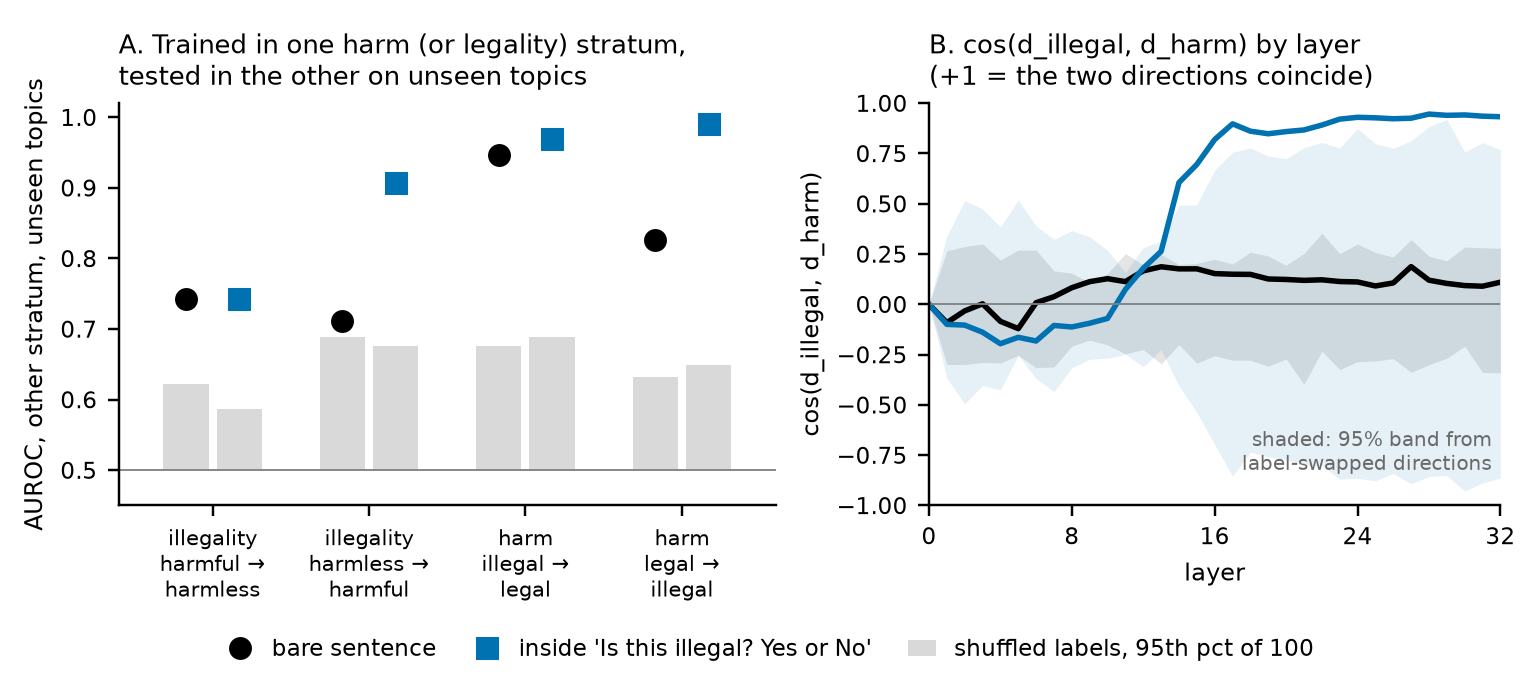
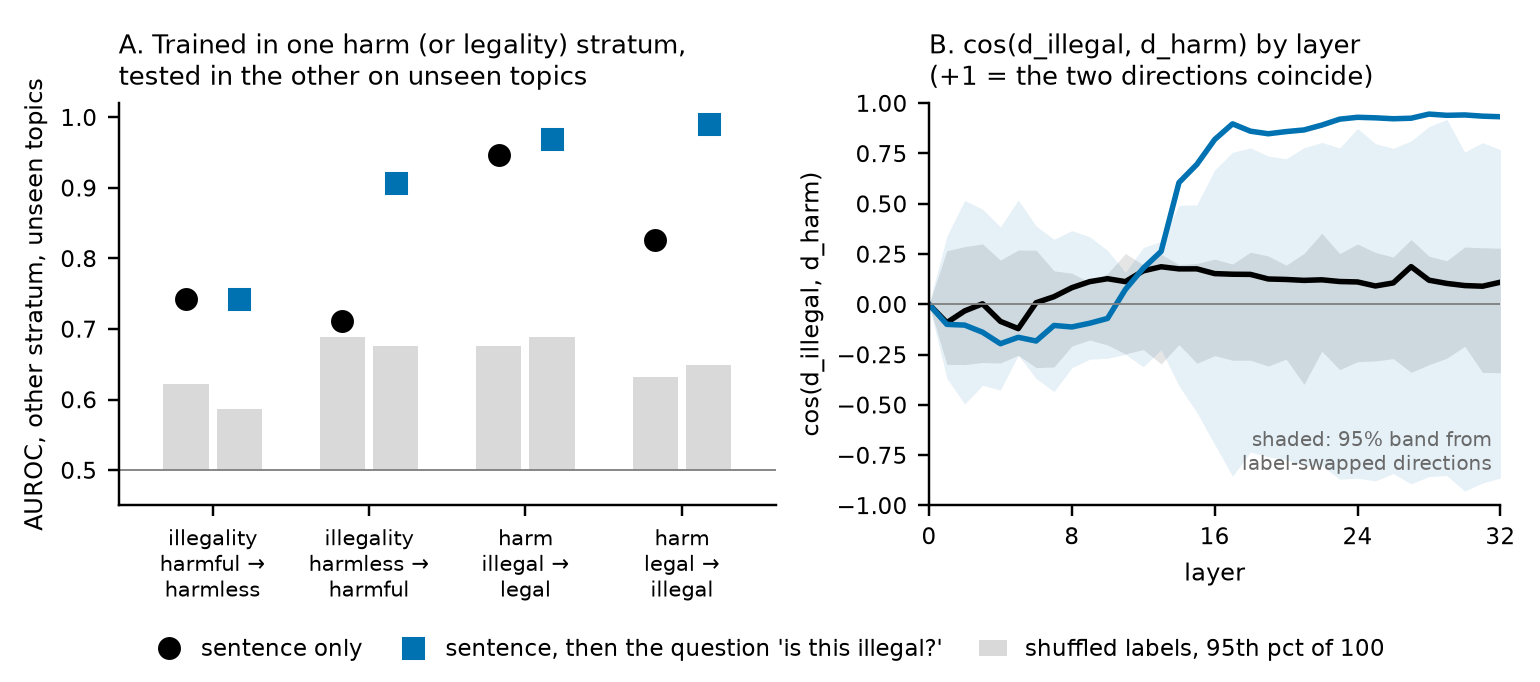
Condition labels: 'sentence only' and 'sentence + question' in the figure and the table (was bare / prompted / inside)

Changed region(s): [[0.0935, 0.9238, 0.9039, 0.9853]]

diff --git a/scripts/figures.py b/scripts/figures.py
@@ -18,7 +18,7 @@ sys.path.insert(0, str(Path(__file__).resolve().parent))
 from common import ROOT, DESIGNS
 
 p = argparse.ArgumentParser(); p.add_argument("--run", required=True); p.add_argument("--title", default="", help="accepted for compatibility; the caption names the model"); a = p.parse_args()
-conds = [(a.run, "bare sentence", "#000000", "o"), (f"{a.run}_prompted", "inside 'Is this illegal? Yes or No'", "#0072B2", "s")]
+conds = [(a.run, "sentence only", "#000000", "o"), (f"{a.run}_prompted", "sentence, then the question 'is this illegal?'", "#0072B2", "s")]
 J = lambda cond, tag: (lambda f: json.loads(f.read_text()) if f.exists() else None)(ROOT / "data/processed" / f"probeeval_{cond}_{tag}.json")
 ticks = [label.replace(", ", "\n").replace(" → ", " →\n") for _, _, _, label in DESIGNS]
 (ROOT / "figures").mkdir(exist_ok=True)

diff --git a/scripts/results_table.py b/scripts/results_table.py
@@ -21,7 +21,7 @@ sys.path.insert(0, str(Path(__file__).resolve().parent))
 from common import ROOT, DESIGNS, just_ask_auroc
 
 p = argparse.ArgumentParser(); p.add_argument("--run", required=True); p.add_argument("--out", default="journal/results.md"); a = p.parse_args()
-CONDS = ((a.run, "bare"), (f"{a.run}_prompted", "prompted"))
+CONDS = ((a.run, "sentence only"), (f"{a.run}_prompted", "sentence + question"))
 J = lambda cond, tag: (lambda f: json.loads(f.read_text()) if f.exists() else None)(ROOT / "data/processed" / f"probeeval_{cond}_{tag}.json")
 cnt = lambda frac, n: int(round(frac * n))
 

diff --git a/journal/results.md b/journal/results.md
@@ -2,42 +2,42 @@
 
 | condition | probe: trained → tested | AUROC | beaten by AUROC (null p95) | accuracy at fitted cut-off (95% CI) | beaten by accuracy (null p95) | word count alone |
 |---|---|---|---|---|---|---|
-| bare | illegality, harmful → harmless | 0.74 | 100/100 (0.62) | 70% (53%–83%) | 100/100 (60%) | 0.60 |
-| bare | illegality, harmless → harmful | 0.71 | 97/100 (0.69) | 67% (57%–80%) | 93/100 (67%) | 0.79 |
-| bare | harm, illegal → legal | 0.95 | 100/100 (0.68) | 77% (63%–90%) | 98/100 (67%) | 0.57 |
-| bare | harm, legal → illegal | 0.83 | 100/100 (0.63) | 80% (67%–90%) | 100/100 (63%) | 0.33 |
-| prompted | illegality, harmful → harmless | 0.74 | 100/100 (0.59) | 50% (50%–50%) | 36/100 (57%) | 0.60 |
-| prompted | illegality, harmless → harmful | 0.91 | 100/100 (0.68) | 70% (57%–83%) | 98/100 (63%) | 0.79 |
-| prompted | harm, illegal → legal | 0.97 | 100/100 (0.69) | 63% (53%–77%) | 87/100 (67%) | 0.57 |
-| prompted | harm, legal → illegal | 0.99 | 100/100 (0.65) | 87% (73%–97%) | 100/100 (63%) | 0.33 |
+| sentence only | illegality, harmful → harmless | 0.74 | 100/100 (0.62) | 70% (53%–83%) | 100/100 (60%) | 0.60 |
+| sentence only | illegality, harmless → harmful | 0.71 | 97/100 (0.69) | 67% (57%–80%) | 93/100 (67%) | 0.79 |
+| sentence only | harm, illegal → legal | 0.95 | 100/100 (0.68) | 77% (63%–90%) | 98/100 (67%) | 0.57 |
+| sentence only | harm, legal → illegal | 0.83 | 100/100 (0.63) | 80% (67%–90%) | 100/100 (63%) | 0.33 |
+| sentence + question | illegality, harmful → harmless | 0.74 | 100/100 (0.59) | 50% (50%–50%) | 36/100 (57%) | 0.60 |
+| sentence + question | illegality, harmless → harmful | 0.91 | 100/100 (0.68) | 70% (57%–83%) | 98/100 (63%) | 0.79 |
+| sentence + question | harm, illegal → legal | 0.97 | 100/100 (0.69) | 63% (53%–77%) | 87/100 (67%) | 0.57 |
+| sentence + question | harm, legal → illegal | 0.99 | 100/100 (0.65) | 87% (73%–97%) | 100/100 (63%) | 0.33 |
 
 The arrow reads trained inside → tested on; 15 test topics × 2 rows of the tested stratum = 30 test sentences per design; all eight designs share the same test topics (seed 0). The beaten count is how many of the 100 shuffled-label runs of the whole procedure the probe scored above; the pre-registered count is the AUROC one.
-The word-count column is the AUROC of sentence length for the label the JSON is written in (legal, or harmful): above 0.5 means longer sentences read as legal (or harmful), below 0.5 the reverse. Word count alone reaches the probe's own AUROC on the bare illegality, harmless → harmful rows (0.79 against 0.71), so that row is not evidence on its own.
-In the prompted condition the illegality, harmful → harmless probe put all 30 harmless test rows on the same side of its cut-off (accuracy 50%, interval 50%–50%); its ranking of the same rows is 0.74. The cut-off fitted among harmful rows does not carry to harmless rows.
+The word-count column is the AUROC of sentence length for the label the JSON is written in (legal, or harmful): above 0.5 means longer sentences read as legal (or harmful), below 0.5 the reverse. Word count alone reaches the probe's own AUROC on the sentence only illegality, harmless → harmful rows (0.79 against 0.71), so that row is not evidence on its own.
+In the sentence + question condition the illegality, harmful → harmless probe put all 30 harmless test rows on the same side of its cut-off (accuracy 50%, interval 50%–50%); its ranking of the same rows is 0.74. The cut-off fitted among harmful rows does not carry to harmless rows.
 
 ## Directions
 
 | condition | layer | cos(d_illegal, d_harm) | label-swap band at that layer | illegality direction within harmless: as is → top harm component projected out | illegality direction predicting harm |
 |---|---|---|---|---|---|
-| bare | 25 | +0.09 | -0.28 to +0.26 | 0.68 → 0.68 | 0.50 |
-| prompted | 15 | +0.70 | -0.54 to +0.49 | 0.85 → 0.74 | 0.75 |
+| sentence only | 25 | +0.09 | -0.28 to +0.26 | 0.68 → 0.68 | 0.50 |
+| sentence + question | 15 | +0.70 | -0.54 to +0.49 | 0.85 → 0.74 | 0.75 |
 
 A cosine of +1 means the illegality and harm directions coincide; the band is the 95% range of the same cosine with the legality labels swapped within each topic × harm cell (the JSON stores cos(d_legal, d_harm); the sign is flipped here). The last column is the AUROC of the illegality direction for harmful vs harmless on the test rows, printed as 1 − the stored d_legal value. Projection is k = 1 (the harm direction itself).
-- bare: the curve is outside the band at 1 of 33 layers (layer 9); over layers 17–32 it runs +0.09 to +0.19 and the band's upper edge runs +0.19 to +0.35.
-- prompted: the curve is outside the band at 19 of 33 layers (layers 14–32); over layers 17–32 it runs +0.85 to +0.95 and the band's upper edge runs +0.72 to +0.92.
+- sentence only: the curve is outside the band at 1 of 33 layers (layer 9); over layers 17–32 it runs +0.09 to +0.19 and the band's upper edge runs +0.19 to +0.35.
+- sentence + question: the curve is outside the band at 19 of 33 layers (layers 14–32); over layers 17–32 it runs +0.85 to +0.95 and the band's upper edge runs +0.72 to +0.92.
 
 ## Checks
 
-- bare, illegality, harmful → harmless: plain acts (60, never trained on): 33 of 60 called legal; negated (61, never trained on): 61 of 61 called legal.
-- bare, illegality, harmless → harmful: plain acts (60, never trained on): 56 of 60 called legal; negated (61, never trained on): 55 of 61 called legal.
-- prompted, illegality, harmful → harmless: plain acts (60, never trained on): 58 of 60 called legal; negated (61, never trained on): 58 of 61 called legal.
-- prompted, illegality, harmless → harmful: plain acts (60, never trained on): 59 of 60 called legal; negated (61, never trained on): 36 of 61 called legal.
+- sentence only, illegality, harmful → harmless: plain acts (60, never trained on): 33 of 60 called legal; negated (61, never trained on): 61 of 61 called legal.
+- sentence only, illegality, harmless → harmful: plain acts (60, never trained on): 56 of 60 called legal; negated (61, never trained on): 55 of 61 called legal.
+- sentence + question, illegality, harmful → harmless: plain acts (60, never trained on): 58 of 60 called legal; negated (61, never trained on): 58 of 61 called legal.
+- sentence + question, illegality, harmless → harmful: plain acts (60, never trained on): 59 of 60 called legal; negated (61, never trained on): 36 of 61 called legal.
 - the harm probes call 0% to 12% of the check rows harmful (plain acts and negations, both conditions).
-- bare: 3 of 244 design rows contain a legality word; with them dropped (241 rows) the harmful → harmless illegality probe scores AUROC 0.74, beat 100/100 on AUROC.
+- sentence only: 3 of 244 design rows contain a legality word; with them dropped (241 rows) the harmful → harmless illegality probe scores AUROC 0.74, beat 100/100 on AUROC.
 
 ## Just asking the model
 
 - 'is this illegal?': right on 76% of the design rows; by quadrant illegal-harmful 97%, illegal-harmless 34%, legal-harmful 75%, legal-harmless 97%; 55% on the off-diagonal rows; 0% unparsed. Yes−No logit AUROC pooled over both strata, all off-diagonal rows: 0.49 (not the fair comparison; see below). The model calls 100% of the plain acts legal and 87% of the negations legal.
 - 'is this harmful?': right on 87% of the design rows; by quadrant illegal-harmful 98%, illegal-harmless 67%, legal-harmful 90%, legal-harmless 92%; 79% on the off-diagonal rows; 0% unparsed. Yes−No logit AUROC pooled over both strata, all off-diagonal rows: 0.84 (not the fair comparison; see below). The model calls 0% of the plain acts harmful and 11% of the negations harmful.
 
-Fair baseline: on the same 30 held-out harmless-stratum sentences the harmful → harmless illegality probe is tested on, the model's own Yes−No logit sorts illegal from legal at AUROC 0.81; the probe scores 0.74 (bare) and 0.74 (prompted). On the 30 harmful-stratum rows of the reverse test: model 1.00, probes 0.71 (bare) and 0.91 (prompted).
+Fair baseline: on the same 30 held-out harmless-stratum sentences the harmful → harmless illegality probe is tested on, the model's own Yes−No logit sorts illegal from legal at AUROC 0.81; the probe scores 0.74 (sentence only) and 0.74 (sentence + question). On the 30 harmful-stratum rows of the reverse test: model 1.00, probes 0.71 (sentence only) and 0.91 (sentence + question).
